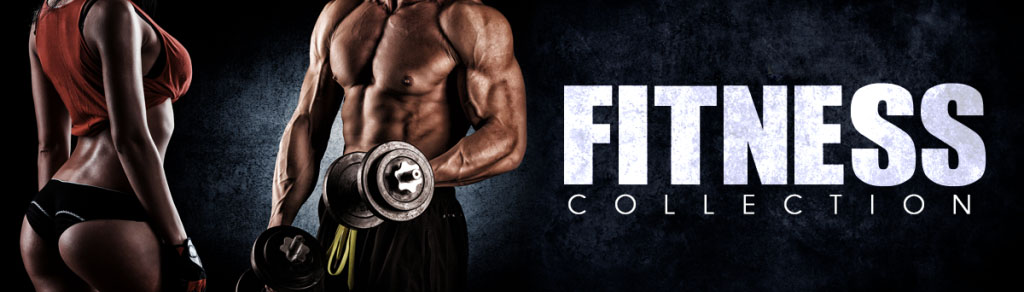
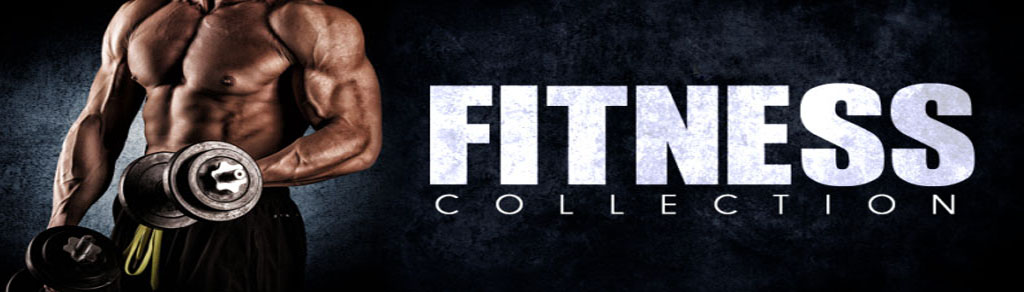
[NEW] Header Issues Fix

diff --git a/css/style.css b/css/style.css
@@ -39,14 +39,13 @@ padding:0;
 	background-size: 100% 100%; 
 }
 .logo-title{
-  padding-top: 30px;
+  padding-top: 40px;
 }
 span.menu{
 	display:none;
 }
 .top-nav {
-    float: right;
-    margin-top: 10px;
+  float: right;
 }
 
 .modal-content {
@@ -183,7 +182,6 @@ text-decoration:none;
 	font-size: 42px;
 	overflow: hidden;
 	padding: 0 0 0px;
-  margin-left: 50px;
 }
 
 .logo .link--yaku::before {
@@ -676,7 +674,7 @@ background-size:cover;
 -o-background-size: cover;
 -ms-background-size: cover;
 -moz-background-size: cover;
-padding:10px 0 95px;
+padding:70px 0 70px;
 }
 h3.tittle,h2.tittle{
     font-size: 40px;
@@ -1602,9 +1600,8 @@ button.close {
 		width: 50%;
 	}
 	.footer-middle {
-		float: right;
 		width: 45%;
-		margin: 0 0 0 0;
+		margin: 10px;
 	}
 	.footer-right {
 		float: right;
@@ -2495,4 +2492,21 @@ h1.t-button, h2.t-button, h3.t-button, h4.t-button, h5.t-button {
 .table td, .table>tbody>tr>td, .table>tbody>tr>th, .table>tfoot>tr>td, .table>tfoot>tr>th, .table>thead>tr>td, .table>thead>tr>th {
     padding: 7px!important;
 }
+}
+
+@media(min-width: 480px){
+  .bgcolor{
+    background: rgba(0,0,0,0.69);
+    padding: 20px;
+    border-radius: 5px;
+  }
+}
+
+@media(min-width: 1025px){
+  .logo .link--yaku {
+    margin-left: 50px;
+  }
+  .top-nav {
+    margin-top: 10px;
+  }
 }

diff --git a/contact.html b/contact.html
@@ -38,7 +38,7 @@ function hideURLbar(){ window.scrollTo(0,1); } </script>
 <body>
 <div class="page-head">
 	<div class="container">
-			<div class="navigation">
+			<div class="navigation bgcolor">
 				<div class="site-logo">
 				</div>
 				<div class="logo logo-title">
@@ -168,7 +168,6 @@ function hideURLbar(){ window.scrollTo(0,1); } </script>
 		<div class="clearfix"></div>
 	</div>
 </div>
-//footer-top-->
 
 <!--copy right-->
 <div class="copyright">

diff --git a/gallery.html b/gallery.html
@@ -38,7 +38,7 @@ function hideURLbar(){ window.scrollTo(0,1); } </script>
 <body>
 <div class="page-head">
 	<div class="container">
-			<div class="navigation">
+			<div class="navigation bgcolor">
 				<div class="site-logo">
 				</div>
 				<div class="logo logo-title">
@@ -250,7 +250,6 @@ function hideURLbar(){ window.scrollTo(0,1); } </script>
 		<div class="clearfix"></div>
 	</div>
 </div>
-//footer-top-->
 
 <!--copy right-->
 <div class="copyright">

diff --git a/pricing.html b/pricing.html
@@ -41,7 +41,7 @@ function hideURLbar(){ window.scrollTo(0,1); } </script>
 <body>
 <div class="page-head">
 	<div class="container">
-			<div class="navigation">
+			<div class="navigation bgcolor">
 				<div class="site-logo">
 				</div>
 				<div class="logo logo-title">
@@ -325,7 +325,6 @@ function hideURLbar(){ window.scrollTo(0,1); } </script>
 		<div class="clearfix"></div>
 	</div>
 </div>
-//footer-top-->
 
 <!--copy right-->
 <div class="copyright">

diff --git a/register.html b/register.html
@@ -38,7 +38,7 @@ function hideURLbar(){ window.scrollTo(0,1); } </script>
 <body>
 <div class="page-head">
 	<div class="container">
-			<div class="navigation">
+			<div class="navigation bgcolor">
 				<div class="site-logo">
 				</div>
 				<div class="logo logo-title">
@@ -231,7 +231,6 @@ function hideURLbar(){ window.scrollTo(0,1); } </script>
 		<div class="clearfix"></div>
 	</div>
 </div>
-//footer-top-->
 
 <!--copy right-->
 <div class="copyright">

diff --git a/about.html b/about.html
@@ -38,7 +38,7 @@ function hideURLbar(){ window.scrollTo(0,1); } </script>
 <body>
 <div class="page-head">
 	<div class="container">
-			<div class="navigation">
+			<div class="navigation bgcolor">
 				<div class="site-logo">
 				</div>
 				<div class="logo logo-title">
@@ -226,7 +226,6 @@ function hideURLbar(){ window.scrollTo(0,1); } </script>
 			<div class="clearfix"></div>
 		</div>
 	</div>
--->
 
 <!--copy right-->
 <div class="copyright">
